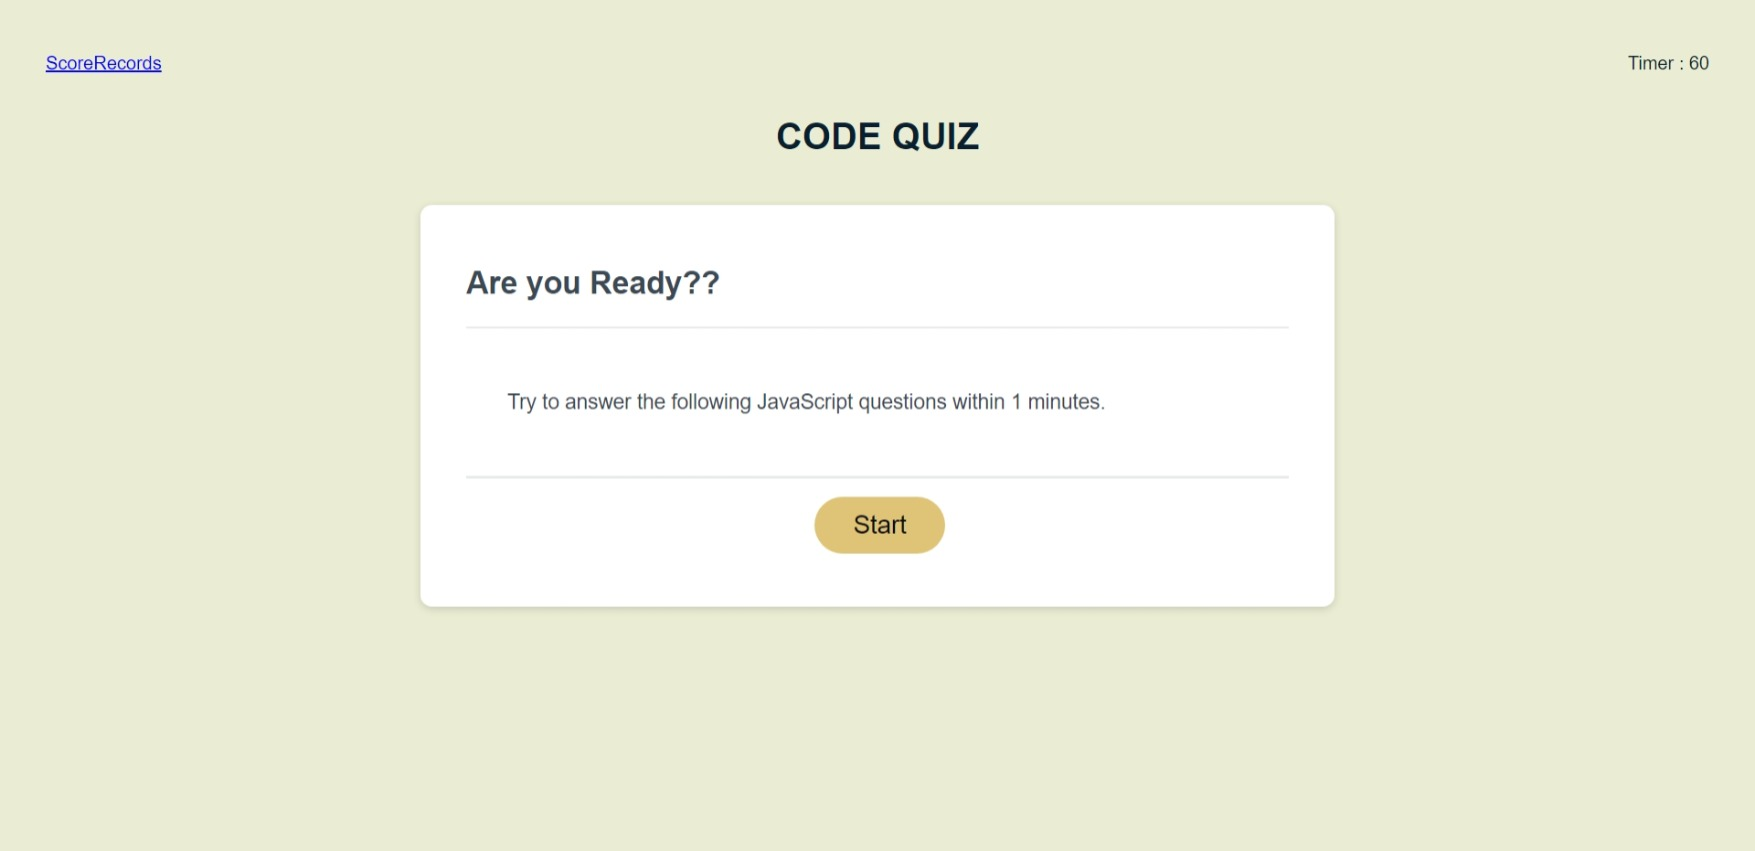
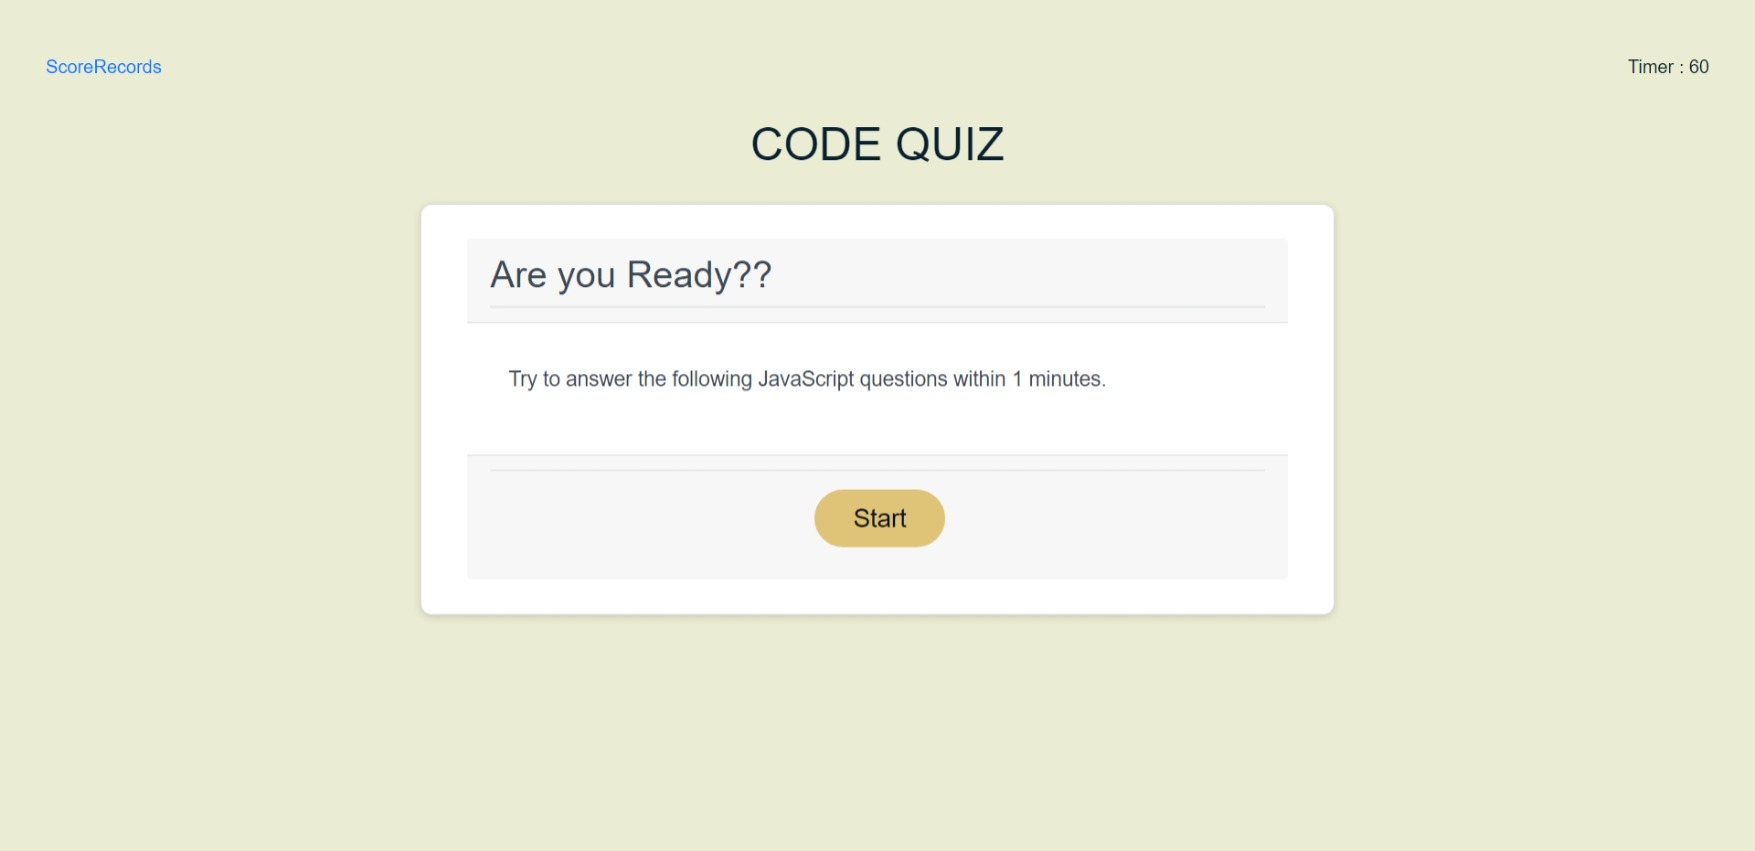
revise the timer function, scorerecord page and style using bootstrap

diff --git a/assets/js/script2.js b/assets/js/script2.js
@@ -1,35 +1,59 @@
-var HighestScore;
-var scoreList = document.querySelector("#ScoreList");
+//set reference to the html elements
+var scoreList = document.querySelector('#ScoreList');
 var clearbtn = document.querySelector("#ClearScore");
 
-
-var ThisScore = [];
-var ScoreRecord=[];
-var length;
+// set the array to store the score details
 var StoredScore= [];
 
 function showRecord(StoredScore){
     for(i=0; i<StoredScore.length; i++){
         var ScoreRecord = StoredScore[i];
-        var li = document.createElement("li");
-        li.textContent = ScoreRecord.name +"       SCORES      "+ ScoreRecord.score;
-        li.setAttribute("data-index", i);
-        scoreList.appendChild(li);
-       
+
+
+        var tr= document.createElement("tr");
+        var th =document.createElement("th");
+        th.textContent = i+1;
+        th.setAttribute("scope", "row");
+
+        var td1 = document.createElement("td");
+        td1.textContent=ScoreRecord.name;
+
+        var td2 = document.createElement("td");
+        td2.textContent=ScoreRecord.score;
+
+        scoreList.appendChild(tr);
+        tr.appendChild(th);
+        tr.appendChild(td1);
+        tr.appendChild(td2);
+
     }
 
 }
 
 function init(){ 
     StoredScore = JSON.parse(localStorage.getItem("StoredScore"));
-    //length = StoredScore.length
+
     console.debug(StoredScore);
     console.debug(typeof(StoredScore));
     console.debug(StoredScore.length);
-    console.debug(scoreList);
-    //console.debug(ScoreRecord);
-    //nameList.textContent = ThisScore.name;
-    //scoreList.textContent = ThisScore.score;
+
+
+    //sorting from highest to lowest score        
+    for(i = 0 ; i < StoredScore.length;i++)
+    {
+        for(j = i+1 ; j< StoredScore.length;j++)
+        {
+            if(StoredScore[i].score < StoredScore[j].score)
+            {   
+                var tempScore;
+                tempScore = StoredScore[j];
+                StoredScore[j] = StoredScore[i];
+                StoredScore[i] = tempScore;
+            }
+        }
+    }
+
+    
     showRecord(StoredScore);
 }
 

diff --git a/assets/js/script.js b/assets/js/script.js
@@ -68,7 +68,7 @@ questions[5] = {
 questions[6] = {
     question: "What is the correct syntax for referring to an external script called 'xxx.js'?",
     answerOption: ["script href='xxx.js'" , " script src='xxx.js'" , "script input='xxx.js'" , "script name='xxx.js'",],
-    ans:"A",
+    ans:"B",
 };
 questions[7] = {
     question: "How does the while loop start?",
@@ -89,16 +89,18 @@ function init(){
 
 
 function SetTimer(){
-    var timerInterval = setInterval(function() {
-        secondsLeft--;
-        timeEl.textContent = secondsLeft;
-    
-        if(secondsLeft === 0) {
+    var timerInterval = setInterval(function() {    
+        if(secondsLeft <= 0) {
           // Stops execution of action at set interval
           clearInterval(timerInterval);
-          EndofQuiz();      
+          secondsLeft=0;
+          timeEl.textContent = secondsLeft;
+          EndofQuiz();
+          return;
         }
-    
+
+        secondsLeft--;
+        timeEl.textContent = secondsLeft;
       }, 1000);
 }
 
@@ -123,12 +125,10 @@ function ShowQuestion(){
 }
 
 function checkAns(){
-
     var ans = document.getElementsByName('Ans');
     console.debug(ans.value);
 
     for (let i of ans) {
-
         if (i.checked) {
             userAns= i.value;
         }
@@ -136,7 +136,6 @@ function checkAns(){
     console.debug(userAns);
     console.debug(questions[questStatus].ans);
     console.debug(questStatus)
-
 
     if (userAns === questions[questStatus].ans){
         AnsStatus.textContent = "That's Correct";
@@ -149,10 +148,7 @@ function checkAns(){
     }
     else {
         AnsStatus.textContent = "Oh! Wrong Answer."
-        secondsLeft -= 5;
-        if (secondsLeft<=0){
-            secondsLeft=1;
-        }
+        secondsLeft -= 5;    
     }  
    
    questStatus=questStatus+1;  
@@ -163,8 +159,7 @@ function checkAns(){
     else
     {
         questStatus = 0;
-        secondsLeft = 1;
-        EndofQuiz();
+        secondsLeft = 0;
     }
 
 

diff --git a/HighestScore.html b/HighestScore.html
@@ -5,6 +5,7 @@
     <meta name="viewport" content="width=device-width, initial-scale=1.0" />
     <meta http-equiv="X-UA-Compatible" content="ie=edge" />
     <title>Code QUIZ</title>
+    <link rel="stylesheet" href="https://cdnjs.cloudflare.com/ajax/libs/twitter-bootstrap/4.5.0/css/bootstrap.min.css">
     <link rel="stylesheet" href="./assets/css/style.css" />
   </head>
 
@@ -12,7 +13,7 @@
     <div class="wrapper">
       <header>
         
-        <h1>CODE Quiz</h1>
+        <h1>CODE QUIZ</h1>
       </header>
       
       <!-- step 4 show score record-->
@@ -20,16 +21,33 @@
         <div class="card-header"> 
           <h2>ScoreRecords</h2>
         </div>
+        
         <div class="card-body">
-          <ol id="ScoreList">
-
-          </ol>
+          <table class="table">
+            <thead>
+              <tr>
+                <th scope="col">#</th>
+                <th scope="col">name</th>
+                <th scope="col">Score</th>
+              </tr>
+            </thead>
+            <tbody id="ScoreList">
+            </tbody>
+          </table>
         </div>
+        
         <div class="card-footer">
-          <a href="./index.html"><button id="goBack" class="btn">Back</button></a>
-          <button id="ClearScore" class="btn">ClearScore</button>
-          
+
+          <div class="btn-group">
+            <a href="./index.html" class="btn btn-warning" aria-current="page">Back</a>
+          </div>
+
+
+       <!--     <a href="./index.html"><button id="goBack" class="btn">Back</button></a>-->
+            <button id="ClearScore" class="btn btn-warning">ClearScore</button>
         </div>
+          
+      
       </div>
     </div>
     <script src="./assets/js/script2.js"></script>

diff --git a/index.html b/index.html
@@ -5,6 +5,7 @@
     <meta name="viewport" content="width=device-width, initial-scale=1.0" />
     <meta http-equiv="X-UA-Compatible" content="ie=edge" />
     <title>Code Quiz</title>
+    <link rel="stylesheet" href="https://cdnjs.cloudflare.com/ajax/libs/twitter-bootstrap/4.5.0/css/bootstrap.min.css">
     <link rel="stylesheet" href="./assets/css/style.css" />
   </head>
 
@@ -13,7 +14,7 @@
       <header>
         <div id ="HeaderSect">
             <div id ="HighestScore">
-                <a href="./HighestScore.html">ScoreRecords</a>
+                <a href="./HighestScore.html ">ScoreRecords</a>
             </div>
             <div id="Timer">
                 <p> Timer : <Span id="TimerCount">60</Span></p>
@@ -31,7 +32,7 @@
           <p>Try to answer the following JavaScript questions within 1 minutes. </p>
         </div>
         <div class="card-footer">
-          <button id="startbtn" class="btn">Start</button>
+          <button id="startbtn" class="btn btn-warning">Start</button>
         </div>
       </div>
 
@@ -59,7 +60,7 @@
 
         <div class="card-footer">
             <p id="AnsStatus"></p>
-          <button id="NextQuest" class="btn">Next Question</button>
+          <button id="NextQuest" class="btn btn-warning">Next Question</button>
         </div> 
       </section>
 
@@ -75,7 +76,7 @@
           <input  type="text" name="username" id="username">
         </div>
         <div class="card-footer">
-          <button id="Submit" class="btn">Submit</button>
+          <button id="Submit" class="btn btn-warning">Submit</button>
         </div> 
       </section>
     </div>

diff --git a/assets/css/style.css b/assets/css/style.css
@@ -43,6 +43,7 @@ header {
 
 #Timer {
     display: inline-block;
+    margin: 16px 0px;
 }
 
 .card {
